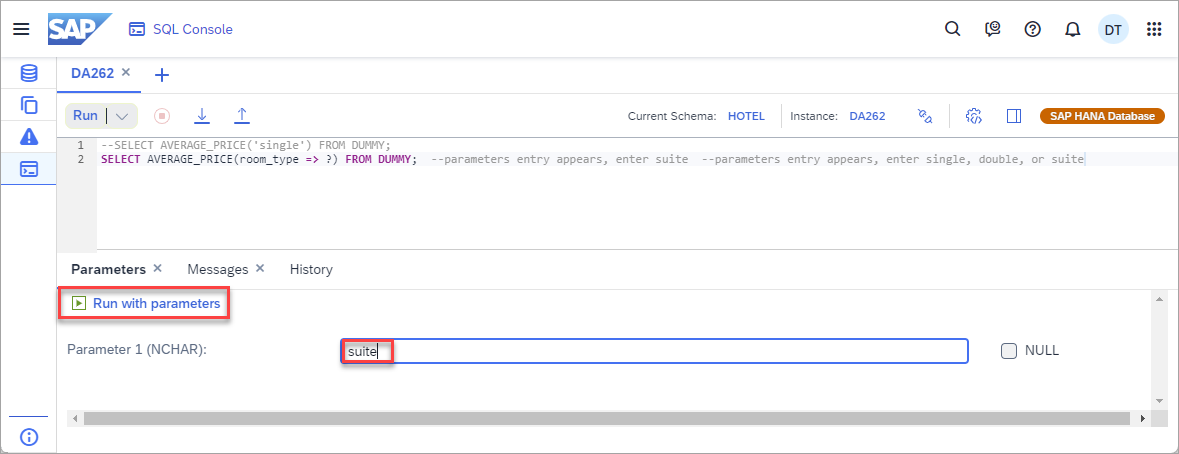
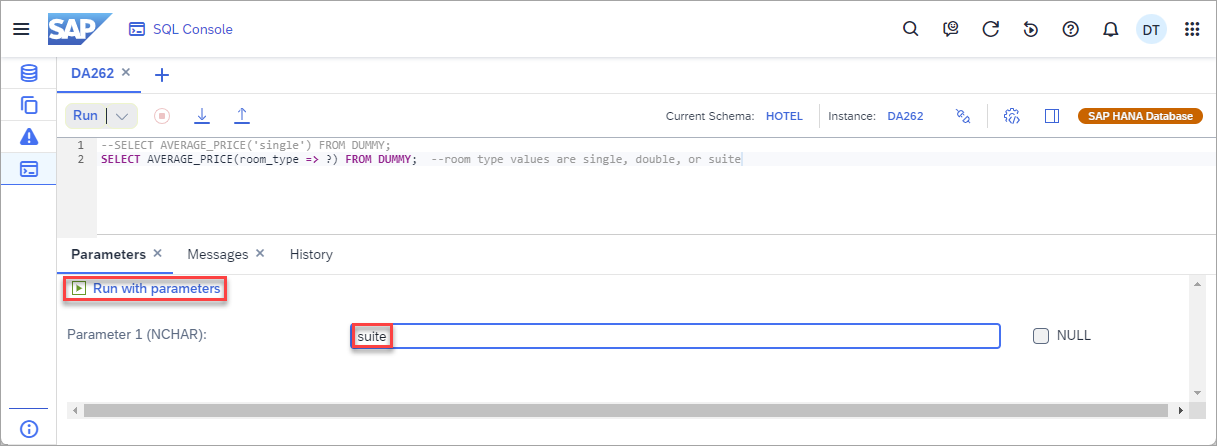
Updates to the SQL Console exercise

diff --git a/exercises/hana_cloud_central/SQLConsole/README.md b/exercises/hana_cloud_central/SQLConsole/README.md
@@ -8,31 +8,35 @@ This exercise will demonstrate the functionality in the SQL Console that is incl
     
         ![open from the side bar](images/open-from-sidebar.png)
 
-    * It can be opened from the action menu.
+    * It can be opened from the action menu and then opens in a connected state.
 
         ![open from the action menu](images/open-from-actions-menu.png)
 
-    * It can be opened from details page.
+    * It can be opened from details page and then opens in a connected state.
 
         ![open from details page](images/open-from-details-page.png) 
 
-    * It can be opened from Search Commands.
+    * It can be opened from Search Commands and then opens in a connected state.
     
         ![open from search commands](images/open-from-search-commands.png)
 
-2. An instance that the SQL Console is connected to can be selected in the instance dialog.
+2. An instance that the SQL Console is connected to can be changed in the instance dialog.
 
     ![Instance selection](images/instance-selection.png)
 
-3. Additional SQL Console tabs can be opened.
+    There is a filter for SAP HANA database and data lake Relational Engine instances and a search bar.  Previously specified connections can be reused so the user name and password for the database does not need to be re-entered.
+
+    ![connected instance dialog](images/connected-instance-dialog.png)
+
+3. Additional SQL Console tabs can be opened perhaps connecting to different instances or to the same instance but with a different set of credentials.
 
     ![open additional SQL Console tabs](images/open-sql-console-tab.png)
 
-4. The contents of a SQL Console can be downloaded or uploaded.  Currently the contents of a SQL Console are not preserved between browser reloads.
+4. The contents of a SQL Console can be downloaded or uploaded.  The contents of a SQL Console are not preserved between browser reloads in the current version.
 
     ![download or upload](images/download-and-upload.png)
 
-5. Execute the below SQLScript to create a usergroup, two users, two roles, a schema, a few tables, views, stored procedures, and functions.  If you are attending SAP TechEd and are using the shared instance, this SQL will already have been executed.
+5. Execute the below SQLScript to create a usergroup, two users, two roles, a schema, a few tables, views, stored procedures, and functions.  **If you are attending SAP TechEd and are using the shared instance, this SQL will already have been executed**.
 
     ```SQL
     CREATE USERGROUP HOTEL_USER_GROUP SET PARAMETER 'minimal_password_length' = '8', 'force_first_password_change' = 'FALSE';
@@ -188,7 +192,7 @@ This exercise will demonstrate the functionality in the SQL Console that is incl
 
     ![create schema](images/create-schema.png)
 
-6. Execute the following SQL statements to add some data to the tables.  If you are attending SAP TechEd and are using the shared instance, this SQL will already have been executed.
+6. Execute the following SQL statements to add some data to the tables.  **If you are attending SAP TechEd and are using the shared instance, this SQL will already have been executed**.
 
     ```SQL
     INSERT INTO HOTEL VALUES(10, 'Congress', '155 Beechwood St.', 'Seattle', 'WA', '98121', NEW ST_POINT('POINT(-122.347340 47.610546)', 4326));
@@ -293,9 +297,9 @@ This exercise will demonstrate the functionality in the SQL Console that is incl
 
     Another technique to see the current user is to view the instance details dialog.
     
-    ![](images/todo.png)
+    TODO feature coming soon.  ![](images/todo.png)
 
-8. An example of changing the schema is shown below.  Press skip when the SQL Execution Error dialog appears.
+8. An example of changing the schema is shown below.  
 
     ```SQL
     SELECT * FROM CUSTOMER;
@@ -304,11 +308,25 @@ This exercise will demonstrate the functionality in the SQL Console that is incl
     SELECT * FROM CUSTOMER;
     ```
 
+    Press **Skip** when the SQL Execution Error dialog appears.
+
+    ![sql execution error](images/sql-execution-error.png)
+    
     ![Set the schemea](images/change-schema.png)
 
-    Notice that when the first SQL statement is executed, the schema is still USER1 and the select statement fails as the CUSTOMER table is in the schema HOTEL but that the last SELECT statement succeeds because the schema has been changed to HOTEL.
+    Notice that when the first SQL statement is executed, the schema is still set to USER1 and the select statement fails as the CUSTOMER table is in the schema HOTEL but that the last SELECT statement succeeds because the schema has been changed to HOTEL.
 
-9. Execute the following SQL which is used to illustrate the x settings.
+    Alternatively, the schema can be set using the schema selection dialog
+
+    ![schema selection dialog](images/change-schema2.png)
+
+    The schemas that the current user has access to are displayed.
+
+9. Examine the **Connection Settings**.  
+
+    ![connection settings](images/connection-settings.png)
+
+    Execute the following SQL which is used to illustrate the settings.
 
     ```SQL
     SELECT COUNT(*) FROM SYS.TABLE_COLUMNS;
@@ -316,26 +334,74 @@ This exercise will demonstrate the functionality in the SQL Console that is incl
     SELECT * FROM M_SYSTEM_INFORMATION_STATEMENTS;
     ```
 
+    Notice that only the first 1024 bytes from the column STATEMENT are displayed in the results view for the Blocked Transactions row.  These limits can be adjusted in the connection settings dialog.
+
+    ![limit for large objects](images/settings-result3.png)
+
     Notice that over 6000 rows are in TABLE_COLUMNS but only the first 1000 are returned.
 
     ![one thousand row limit](images/settings-result1.png)
 
-    Notice that only the first 1024 bytes from the column STATEMENT are displayed in the results view for the Blocked Transactions row.  These limits can be adjusted in the connection settings dialog.
+    ![one thousand row limit](images/settings-result2.png)
 
-    ![connection settings dialog](images/settings-result2.png)
-
-10. A function or stored procedure can be called.  If an input parameter is needed, a section will appear where their values can be entered as shown below.
+10. Execute the following SQL statement.
 
     ```SQL
     --SELECT AVERAGE_PRICE('single') FROM DUMMY;
-    SELECT AVERAGE_PRICE(room_type => ?) FROM DUMMY;  --parameters entry appears, enter suite  --parameters entry appears, enter single, double, or suite
+    SELECT AVERAGE_PRICE(room_type => ?) FROM DUMMY;  --room type values are single, double, or suite
     ```
+
+    As an input parameter is needed, a section will appear where values can be entered as shown below.
 
     ![run with parameters](images/run-with-parameters.png)
 
-11. TODO messages and history tabs.
+11. Execute the following SQL statements.
 
-12. TODO JSON, XML viewers
+    ```SQL
+    SELECT AVERAGE_PRICE('single') FROM DUMMY;
+    SELECT * FROM TABLE_COLUMNS;
+    ```
+
+    Open the **Messages** tab in the results.  Notice that metrics such as client elapsed time and peak memory consumed are shown.
+
+    ![metrics in the messages tab](images/messages.png)
+
+    Open the **History** tab.  Notice that a summary of the statements executed is available.
+
+    ![history tab](images/history.png)
+
+    These values can be cleared by refreshing the browser.
+
+12. Execute the following SQL statements.
+
+    ```SQL
+    SELECT'{ "name":"John", "age":30, "cars": { "car1":"Ford", "car2":"BMW", "car3":"Fiat" }}'
+    AS JSON_EXAMPLE FROM DUMMY;
+
+    SELECT '<?xml version="1.0" encoding="UTF-8"?>
+        <breakfast_menu>
+            <food>
+                <name>Belgian Waffles</name>
+                <price>$5.95</price>
+                <description>
+            Two of our famous Belgian Waffles with plenty of real maple syrup
+            </description>
+                <calories>650</calories>
+            </food>
+            <food>
+                <name>French Toast</name>
+                <price>$4.50</price>
+                <description>
+                Thick slices made from our homemade sourdough bread
+                </description>
+                <calories>600</calories>
+            </food>
+        </breakfast_menu>' XML_EXAMPLE FROM DUMMY;
+    ```
+
+    Double click on a result and notice the result is formatted or can be shown in raw text. 
+
+    ![JSON viewer](images/json-viewer.png)
 
 13. Statement help can be shown.  Notice that details of the table and function used in the current statement is shown.
 
@@ -347,6 +413,8 @@ This exercise will demonstrate the functionality in the SQL Console that is incl
     ------ | ------
     Add Comment Block | Ctrl+Shift+/
     Comment/Uncomment Line | Ctrl+/
+    To Uppercase | Ctrl+Alt+U
+    To Lowercase | Ctrl+Shift+U
     Go to Next Error | Alt+E
     Go to Previous Error | Alt+Shift+E
     Jump to Matching Brackets | Ctrl+P
@@ -356,11 +424,13 @@ This exercise will demonstrate the functionality in the SQL Console that is incl
 
     >Note: The shortcut keys may vary depending on the browser used.
 
-15. Results can be downloaded directly from the SQL Console as shown below.  Try it out by executing the following statement and then downloading and copying the results.
+15. Execute the followng SQL statement.
 
     ```SQL
     SELECT * FROM RESERVATION_VIEW;
     ```
+
+    Results can be downloaded directly from the SQL Console as shown below.
 
     ![download results](images/download-results.png)
 
@@ -368,7 +438,7 @@ This exercise will demonstrate the functionality in the SQL Console that is incl
 
     ![download options](images/download-options.png)
 
-    Rows can also be selected and copied to the clipboard by pressing Ctrl+C.
+    Rows can also be selected and then copied to the clipboard by pressing **Ctrl+C**.
 
     ![copy results](images/copy-results.png)
 
